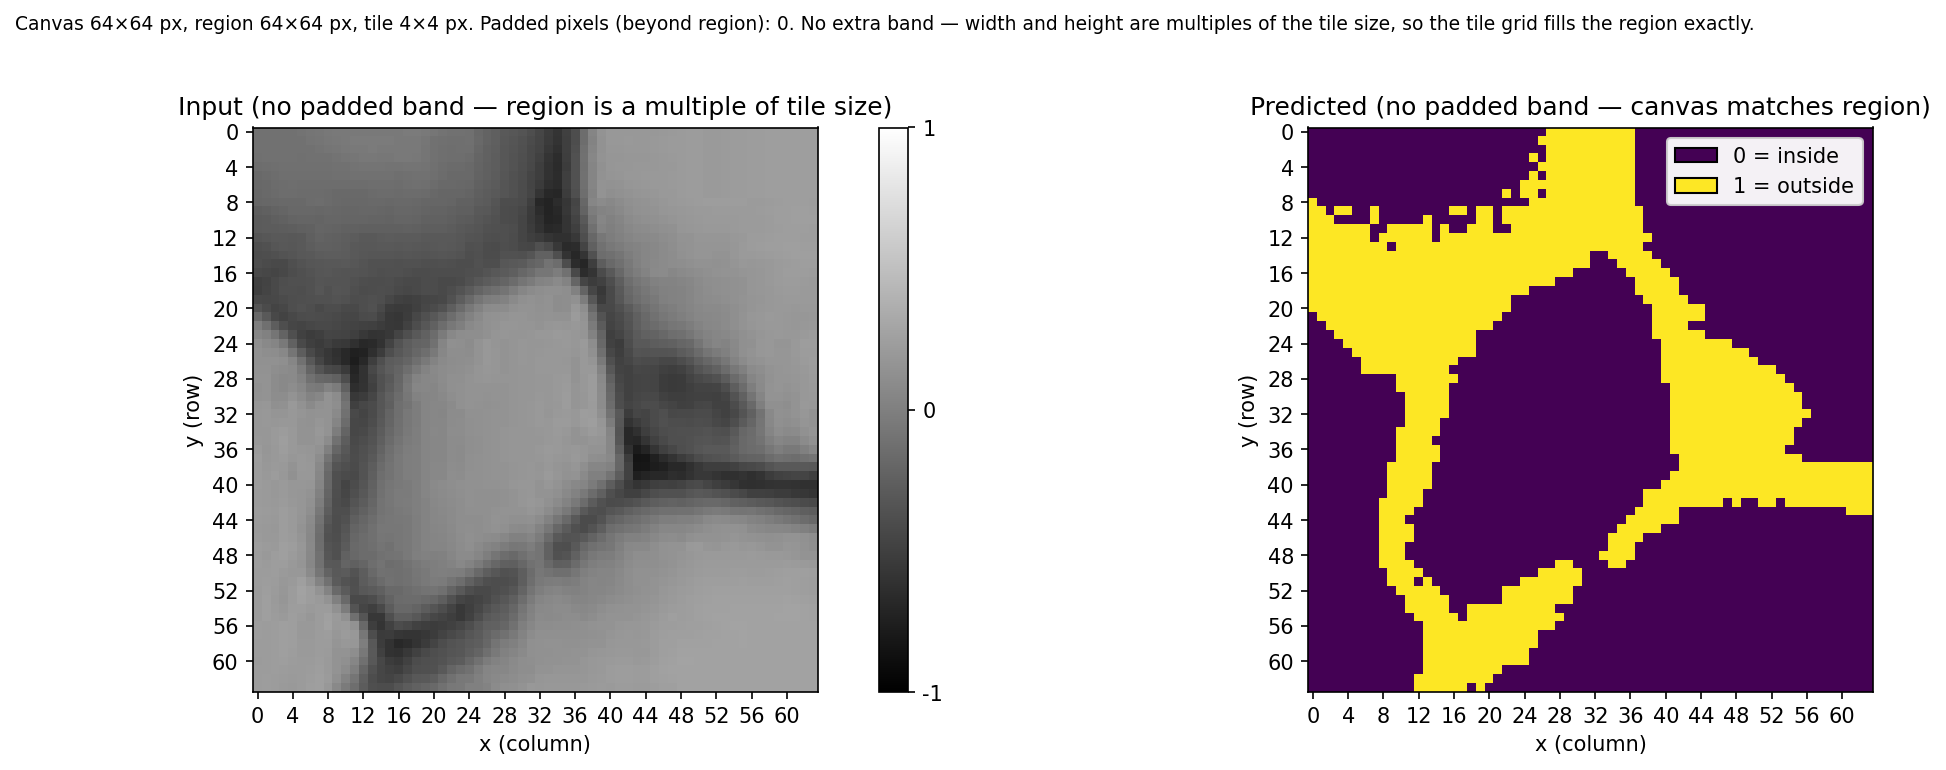
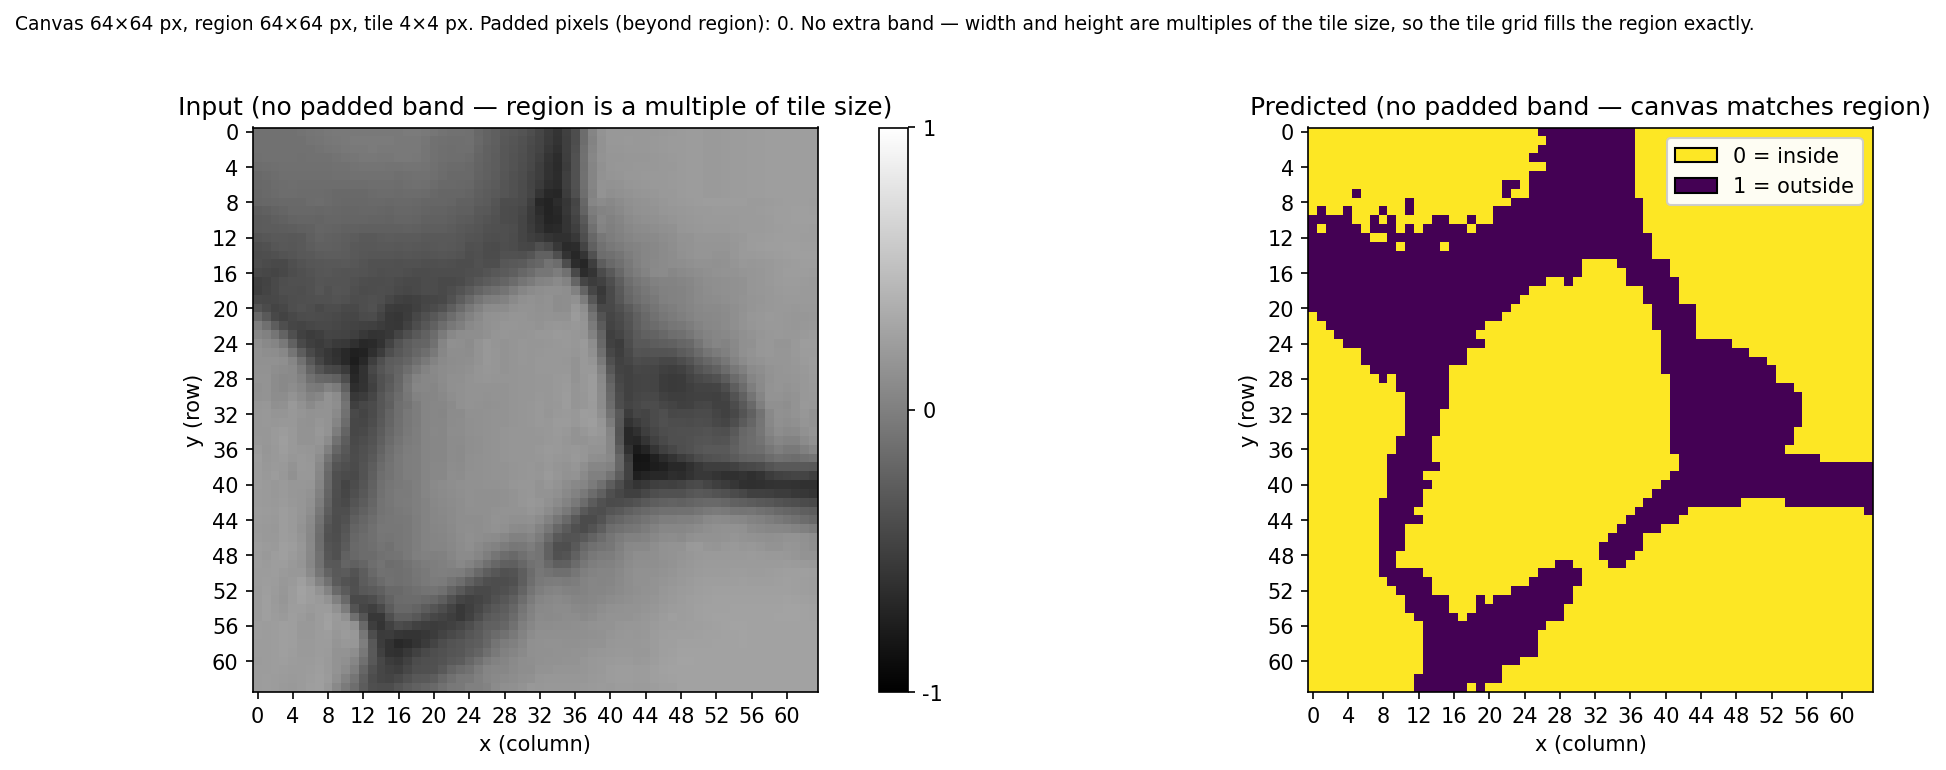
reversed colors for clarity

Changed region(s): [[0.6475, 0.1558, 0.9866, 0.9039]]

diff --git a/ehands_qcrank_vertex_classification_flat.py b/ehands_qcrank_vertex_classification_flat.py
@@ -1144,13 +1144,13 @@ def plot_input_tile_and_classification(input_tile, predicted_tile, out_name):
     ax_input.set_xticks(np.arange(input_tile.shape[1]))
     ax_input.set_yticks(np.arange(input_tile.shape[0]))
 
-    im1 = ax_pred.imshow(predicted_tile, cmap="viridis", vmin=0, vmax=1, origin="upper")
+    im1 = ax_pred.imshow(predicted_tile, cmap="viridis_r", vmin=0, vmax=1, origin="upper")
     ax_pred.set_title("Predicted classification")
     ax_pred.set_xlabel("x")
     ax_pred.set_ylabel("y")
     ax_pred.set_xticks(np.arange(predicted_tile.shape[1]))
     ax_pred.set_yticks(np.arange(predicted_tile.shape[0]))
-    cmap = plt.get_cmap("viridis")
+    cmap = plt.get_cmap("viridis_r")
     ax_pred.legend(
         handles=[
             Patch(facecolor=cmap(0.0), edgecolor="black", label="0 = inside"),
@@ -1217,7 +1217,7 @@ def plot_full_image_vs_classification(
     cbar0.set_ticklabels(["-1", "0", "1"])
 
     im1 = ax_pred.imshow(
-        predicted_image, cmap="viridis", vmin=0, vmax=1, origin="upper", zorder=1
+        predicted_image, cmap="viridis_r", vmin=0, vmax=1, origin="upper", zorder=1
     )
     if region_size_hw is not None:
         if n_pad > 0:
@@ -1230,7 +1230,7 @@ def plot_full_image_vs_classification(
         ax_pred.set_title("Predicted classification (stitched tiles)")
     ax_pred.set_xlabel("x (column)")
     ax_pred.set_ylabel("y (row)")
-    cmap = plt.get_cmap("viridis")
+    cmap = plt.get_cmap("viridis_r")
     ax_pred.legend(
         handles=[
             Patch(facecolor=cmap(0.0), edgecolor="black", label="0 = inside"),
